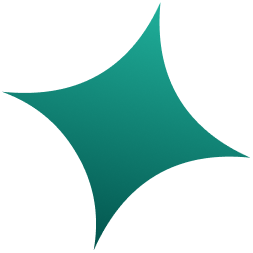
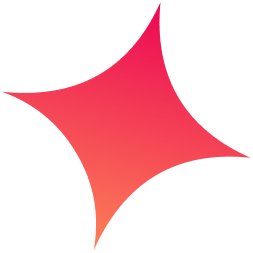
config: update poster config for A zone

Changed region(s): [[0.0, 0.0, 0.996, 0.996]]

diff --git a/src/components/Poster/index.jsx b/src/components/Poster/index.jsx
@@ -10,7 +10,6 @@ import {
     off_stage_star_2,
     stage_glory_logo,
     off_stage_glory_logo,
-    catalyst_logo,
 } from "@/assets/poster/2026/index.js";
 import classNames from 'classnames';
 import './style.css';
@@ -59,7 +58,7 @@ function index({ data }) {
 
                     <div className={`${data?.stageStatus ? 'result-bg-inner-stage' : 'result-bg-inner-off-stage'} result-bg-inner rounded-t-full before:rounded-t-full`} />
                     
-                    <div className={`${data?.stageStatus ? 'border-[#2E9ECD] text-[#2E9ECD] drop-shadow-[0_3px_0_#012161]' : 'border-[#20B09B] text-[#20B09B] drop-shadow-[0_3px_0_#02534C]'} bg-white border rounded-full px-2 py-1 max-w-[185px] text-center mx-auto`}>
+                    <div className={`${data?.stageStatus ? 'border-[#A69F0F] text-[#A69F0F] drop-shadow-[0_3px_0_#11CF50]' : 'border-[#ED0854] text-[#ED0854] drop-shadow-[0_3px_0_#FC8157]'} bg-white border rounded-full px-2 py-1 max-w-[185px] text-center mx-auto`}>
                         <p className={classNames('text-[11px] leading-3 font-extrabold text-center wordIssue',
                             {
                                 'text-[10px] ': data?.programName?.length > 20,
@@ -74,7 +73,7 @@ function index({ data }) {
                                         alt=""
                                         className="w-7 h-[39.28px]"
                                     />
-                                    <span className={`absolute top-1/2 right-1/2 translate-x-1/2 -translate-y-1/2 text-[10px] font-semibold ${data?.stageStatus ? 'text-[#012161]' : 'text-[#02534C]'}`}>
+                                    <span className={`absolute top-1/2 right-1/2 translate-x-1/2 -translate-y-1/2 text-[10px] font-semibold ${data?.stageStatus ? 'text-[#30C543]' : 'text-[#FC7E57]'}`}>
                                         0{winner?.position}
                                     </span>
                                 </div>
@@ -128,7 +127,6 @@ function index({ data }) {
                 </div>
                 <div className="flex justify-between items-center w-full mt-2">
                     <img src={data?.stageStatus ? stage_glory_logo : off_stage_glory_logo} alt="gloryBoard Logo" className='w-10' />
-                    <img src={catalyst_logo} alt="catalyst Logo" className='w-16 -mr-2' />
                 </div>
             </div>
 

diff --git a/src/components/IndividualResultPoster/index.jsx b/src/components/IndividualResultPoster/index.jsx
@@ -15,33 +15,33 @@ const getConfigByPosition = (position) => {
             return {
                 bg: individual_first_bg,
                 badge: first_badge,
-                titleStyle: 'border-[#789D29] text-[#789D29]',
-                nameStyle: 'text-[#1A2600]',
-                collegeStyle: 'text-[#789D29]',
+                titleStyle: 'border-[#D81F31] text-[#D81F31]',
+                nameStyle: 'text-[#720C16]',
+                collegeStyle: 'text-[#D81F31]',
             };
         case 2:
             return {
                 bg: individual_second_bg,
                 badge: second_badge,
-                titleStyle: 'border-[#0AAD5C] text-[#0AAD5C]',
-                nameStyle: 'text-[#093E32]',
-                collegeStyle: 'text-[#0AAD5C]',
+                titleStyle: 'border-[#15A253] text-[#15A253]',
+                nameStyle: 'text-[#004E22]',
+                collegeStyle: 'text-[#15A253]',
             };
         case 3:
             return {
                 bg: individual_third_bg,
                 badge: third_badge,
-                titleStyle: 'border-[#B5496B] text-[#B5496B]',
-                nameStyle: 'text-[#521666]',
-                collegeStyle: 'text-[#B5496B]',
+                titleStyle: 'border-[#EA9224] text-[#EA9224]',
+                nameStyle: 'text-[#804801]',
+                collegeStyle: 'text-[#EA9224]',
             };
         default:
             return {
                 bg: individual_first_bg,
                 badge: first_badge,
-                titleStyle: 'border-[#789D29] text-[#789D29]',
-                nameStyle: 'text-[#1A2600]',
-                collegeStyle: 'text-[#789D29]',
+                titleStyle: 'border-[#D81F31] text-[#D81F31]',
+                nameStyle: 'text-[#720C16]',
+                collegeStyle: 'text-[#D81F31]',
             };
     }
 }

diff --git a/src/components/CollegeLeaderboardPoster/2026/index.jsx b/src/components/CollegeLeaderboardPoster/2026/index.jsx
@@ -28,11 +28,11 @@ function index({ data ,ResultCount}) {
                     <div className="flex items-center justify-center">
                         <img className="w-[250px] pt-0" src={header} alt="header" />
                     </div>
-                    <div className='flex mb-4 mt-7 rounded-full text-sm items-center justify-center text-center  w-fit gap-1.5 mx-auto text-white font-semibold px-4 py-[3px]'
+                    <div className='flex mb-4 mt-5 rounded-full text-sm items-center justify-center text-center  w-fit gap-1.5 mx-auto text-white font-semibold px-4 py-[3px]'
                     style={{
-                        background: '#EA9223'
+                        background: 'radial-gradient(50% 50% at 50% 50%, #EA9224 0%, #D71F30 100%)'
                     }}>
-                        After<div className='bg-white/20 rounded-sm px-[2px] text-shadow-xs'>{ResultCount}</div>Results
+                        After<div className='bg-[#EA9224] rounded-sm px-[2px] text-shadow-xs'>{ResultCount}</div>Results
                     </div>
                     <div className="mt-3 mb-32 space-y-[5px] h-fit">
                         {top5Colleges.map((college, index) => (

diff --git a/src/components/Poster/style.css b/src/components/Poster/style.css
@@ -18,15 +18,15 @@
     z-index: -1;
 }
 .result-bg-inner-stage {
-    background: linear-gradient(180deg, #146BB6 0%, #012161 100%);
+    background: linear-gradient(180deg, #A69F0F 0%, #11CF50 100%);
 }
 .result-bg-inner-off-stage {
-    background: linear-gradient(180deg, #20B09B 0%, #02534C 100%);
+    background: linear-gradient(180deg, #ED0554 0%, #FC8157 100%);
 }
 
 .result-bg-stage {
-    background: linear-gradient(180deg, #146BB6 0%, #012161 100%);
+    background: linear-gradient(180deg, #A69F0F 0%, #11CF50 100%);
 }
 .result-bg-off-stage {
-    background: linear-gradient(180deg, #20B09B 0%, #02534C 100%);
+    background: linear-gradient(180deg, #ED0554 0%, #FC8157 100%);
 }

diff --git a/src/assets/poster/2026/index.js b/src/assets/poster/2026/index.js
@@ -8,7 +8,6 @@ import off_stage_star_1 from "./program/off_stage_star_1.png";
 import off_stage_star_2 from "./program/off_stage_star_2.png";
 import stage_glory_logo from "./program/stage_glory_logo.png";
 import off_stage_glory_logo from "./program/off_stage_glory_logo.png";
-import catalyst_logo from "./program/catalyst_logo.png";
 
 import top_element from "./leaderboard/top_element.png";
 import bottom_element from "./leaderboard/bottom_element.png";
@@ -41,5 +40,4 @@ export {
     off_stage_star_2,
     stage_glory_logo,
     off_stage_glory_logo,
-    catalyst_logo,
 }
